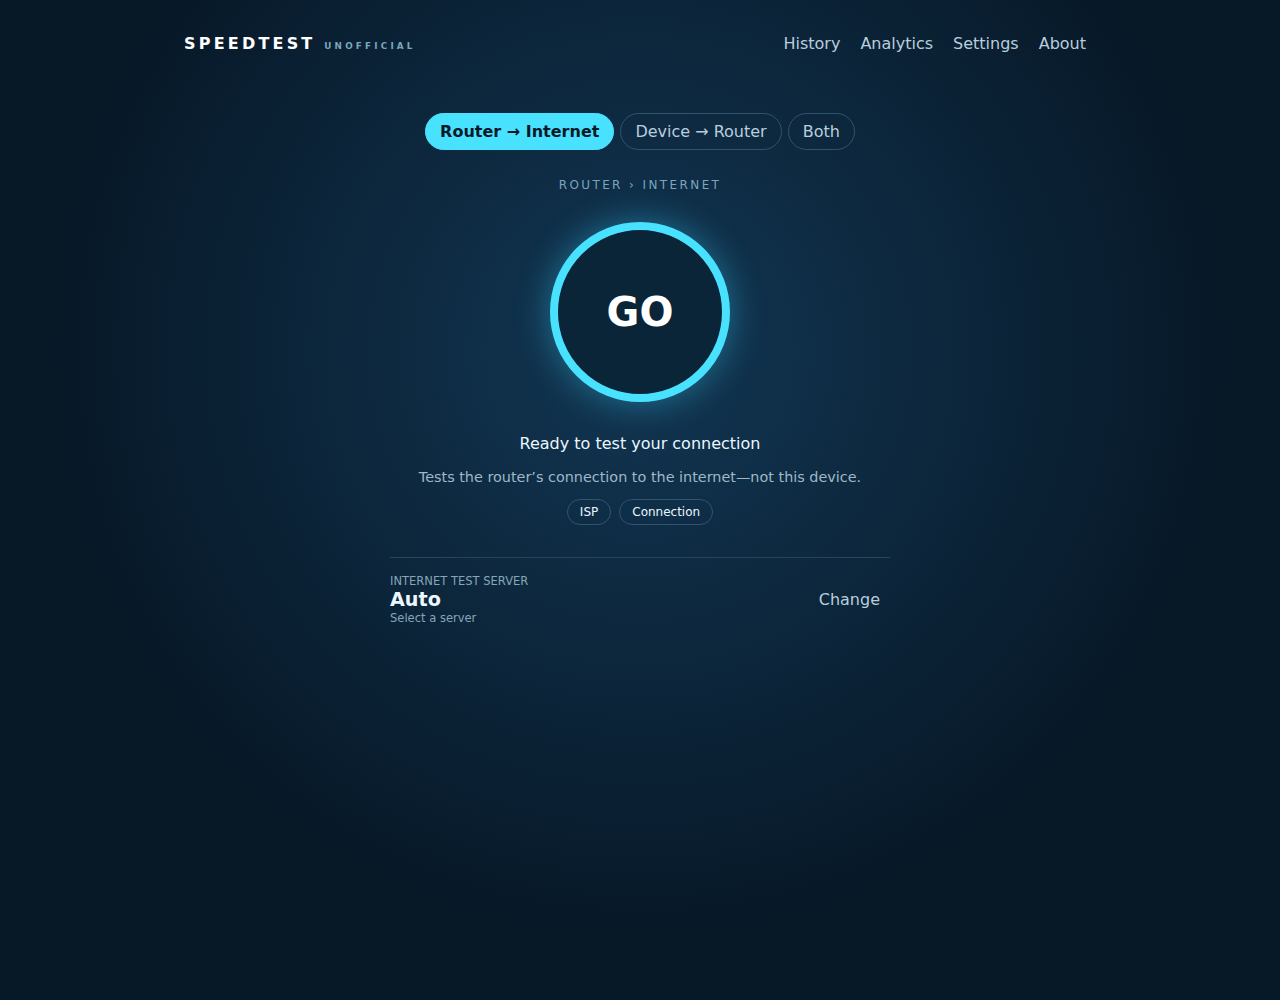
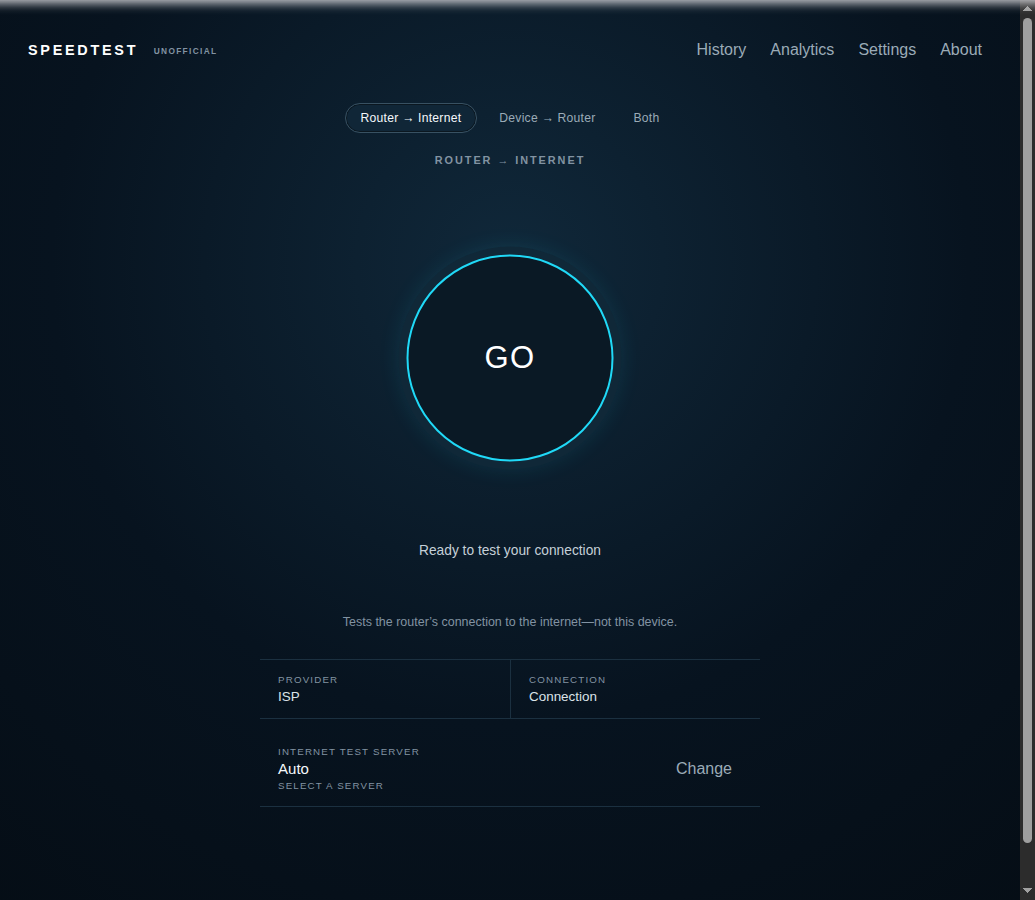
fix: verify live gauges on GL.iNet

diff --git a/tests/test_frontend_live.js b/tests/test_frontend_live.js
@@ -23,6 +23,7 @@ class FakeNode {
   removeChild(node) { this.children.splice(this.children.indexOf(node), 1); }
   get firstChild() { return this.children[0] || null; }
   setAttribute(name, value) { this.attributes[name] = String(value); }
+  removeAttribute(name) { delete this.attributes[name]; }
   getAttribute(name) { return this.attributes[name] || null; }
   showModal() { this.open = true; }
 }
@@ -133,16 +134,16 @@ async function testLiveSamplesReachComplete() {
   assert.equal(h.app.state.phase, 'ping');
   assert.equal(h.nodes['live-gauge'].attributes['data-phase'], 'ping');
   assert.equal(h.nodes['phase-label'].textContent, 'Ping');
-  assert.equal(h.nodes['gauge-needle'].attributes.transform, 'rotate(-110.025 230 230)');
+  assert.equal(h.nodes['gauge-needle'].style.transform, 'rotate(-110.025deg)');
   await h.timers.tick(500);
   assert.equal(h.app.state.phase, 'download');
   assert.deepEqual(Array.from(h.app.state.traces.download), [80, 120]);
   assert.notEqual(h.nodes['download-trace'].attributes.d, '');
-  const downloadNeedle = h.nodes['gauge-needle'].attributes.transform;
+  const downloadNeedle = h.nodes['gauge-needle'].style.transform;
   await h.timers.tick(500);
   assert.equal(h.app.state.phase, 'upload');
   assert.deepEqual(Array.from(h.app.state.traces.upload), [31]);
-  assert.notEqual(h.nodes['gauge-needle'].attributes.transform, downloadNeedle);
+  assert.notEqual(h.nodes['gauge-needle'].style.transform, downloadNeedle);
   await h.timers.tick(500);
   const result = await promise;
   assert.equal(h.app.state.phase, 'complete');
@@ -152,6 +153,24 @@ async function testLiveSamplesReachComplete() {
   assert.equal(result.upload_mbps, 31);
   assert.equal(h.app.state.download, 296.73);
   assert.deepEqual(Array.from(h.app.state.traces.download), [80, 120, 296.73]);
+}
+
+async function testResultEventWaitsForEnrichedTerminalState() {
+  const early = complete('result-race', 250);
+  early.state = 'running';
+  delete early.result.network_context;
+  const terminal = complete('result-race', 250);
+  terminal.result.network_context = { note: 'Tailscale exit node', vpn: true };
+  const responses = [{ ok: true, job_id: 'result-race' }, early, terminal];
+  const h = harness(() => Promise.resolve(responses.shift()));
+  const pending = h.app.internetTest();
+  await flush();
+  assert.equal(h.app.state.phase, 'complete');
+  assert.equal(h.app.state.status, 'running', 'a JSONL result event is not the worker terminal state');
+  await h.timers.tick(500);
+  const result = await pending;
+  assert.equal(result.network_context.note, 'Tailscale exit node');
+  assert.equal(h.calls.filter(call => call.method === 'live_status').length, 2);
 }
 
 async function testCadenceAndRetries() {
@@ -1172,6 +1191,7 @@ async function testMalformedNumericSamplesBecomeStableErrors() {
 
 (async function main() {
   await testLiveSamplesReachComplete();
+  await testResultEventWaitsForEnrichedTerminalState();
   await testCadenceAndRetries();
   await testStaleResponsesAreIgnored();
   await testCancelIsImmediateAndSingleShot();

diff --git a/package/shared/ookla-speedtest-web/app.js b/package/shared/ookla-speedtest-web/app.js
@@ -6,6 +6,7 @@ var pollTimer=null,pollWake=null,pollTimerToken=null,cancelPromise=null,cancelPr
 var state={view:'home',mode:'router-internet',status:'idle',phase:'idle',progress:0,gaugeValue:0,gaugeUnit:'Mbps',gaugeScale:100,traces:{download:[],upload:[]},activeJob:null,localRunId:null,cancelRequested:false,pollFailures:0,errorPath:null,errorCode:null,failedPhase:null,failedMode:null,download:null,upload:null,ping:null,jitter:null,loss:null,server:{name:'Auto',sponsor:'',city:'',latency:'—'},history:[],results:{internet:null,local:null},isp:'ISP',connection:'Connection',network:null,range:7,servers:[],pendingMode:null};
 function el(id){return document.getElementById(id)}
 function text(node,value){if(node)node.textContent=value}
+function setHidden(node,hidden){if(!node)return;node.hidden=hidden;if(hidden)node.setAttribute('hidden','');else node.removeAttribute('hidden')}
 function notify(){listeners.forEach(function(fn){fn(state)})}
 function subscribe(fn){listeners.push(fn);return function(){listeners=listeners.filter(function(x){return x!==fn})}}
 function navigate(view){state.view=view;render();notify()}
@@ -57,8 +58,8 @@ function applyLiveStatus(payload,jobId){
     if(payload.result.ping&&payload.result.ping.jitter!=null)liveNumber(payload.result.ping.jitter,100000);
     if(payload.result.packetLoss!=null)liveNumber(payload.result.packetLoss,100);
   }
-  state.phase=phase;state.status=phase==='complete'?'done':'running';
-  if(phase==='complete')clearPollWake();
+  state.phase=phase;state.status=backendState==='complete'?'done':'running';
+  if(backendState==='complete')clearPollWake();
   if(progress!=null)state.progress=progress*100;
   if(ping!=null)state.ping=ping;
   if(jitter!=null)state.jitter=jitter;
@@ -149,14 +150,14 @@ function renderGauge(){
   var angle=SpeedtestGauge.angleFor(Number(state.gaugeValue)||0,scale);
   var progress=Math.max(0,Math.min(100,Number(state.progress)||0));
   gauge.setAttribute('data-phase',phase);gauge.setAttribute('data-status',state.status);gauge.setAttribute('aria-busy',state.status==='preparing'||state.status==='running'||state.status==='cancelling'?'true':'false');gauge.style.setProperty('--gauge-progress',String(progress));
-  el('gauge-needle').setAttribute('transform','rotate('+angle+' 230 230)');
+  el('gauge-needle').style.transform='rotate('+angle+'deg)';
   text(el('phase-label'),phase==='ping'?'Ping':phase==='download'?'Download':phase==='upload'?'Upload':phase==='complete'?'Complete':'Ready');
   text(el('gauge-value'),metric(state.gaugeValue));text(el('gauge-unit'),state.gaugeUnit||'Mbps');
   document.querySelectorAll('[data-gauge-scale]').forEach(function(label,index){label.textContent=metric(scale*index/4)});
   text(el('metric-download'),metric(state.download));text(el('metric-upload'),metric(state.upload));text(el('metric-ping'),metric(state.ping));text(el('metric-jitter'),metric(state.jitter));text(el('metric-loss'),metric(state.loss));
   el('download-trace').setAttribute('d',SpeedtestGauge.tracePath(state.traces.download,scale));
   el('upload-trace').setAttribute('d',SpeedtestGauge.tracePath(state.traces.upload,scale));
-  var compact=state.status==='idle'||state.status==='preparing'||state.status==='done'||state.status==='cancelled'||state.status==='error';el('gauge-dial').hidden=compact;el('gauge-readout').hidden=compact;
+  var compact=state.status==='idle'||state.status==='preparing'||state.status==='done'||state.status==='cancelled'||state.status==='error';setHidden(el('gauge-dial'),compact);setHidden(el('gauge-readout'),compact);
   el('primary-metrics').hidden=state.status==='idle'||state.status==='preparing';document.querySelector('.latency-strip').hidden=state.status==='idle'||state.status==='preparing';
   el('go-control').hidden=state.status==='preparing'||state.status==='running'||state.status==='cancelling';el('cancel-test').hidden=state.status!=='running';el('cancel-test').disabled=state.status!=='running';
   if(state.status!=='running')clearNumericAnnouncement();announcePhase(state.phase);if(state.status==='running')announceGauge(phase+' '+metric(state.gaugeValue)+' '+(state.gaugeUnit||'Mbps'));

diff --git a/tests/test_frontend_render.js b/tests/test_frontend_render.js
@@ -19,6 +19,8 @@ class FakeNode {
   removeChild(node) { this.children.splice(this.children.indexOf(node), 1); }
   get firstChild() { return this.children[0] || null; }
   setAttribute(name, value) { this.attributes[name] = String(value); }
+  removeAttribute(name) { delete this.attributes[name]; }
+  hasAttribute(name) { return Object.prototype.hasOwnProperty.call(this.attributes, name); }
   getAttribute(name) { return this.attributes[name] || null; }
 }
 
@@ -28,6 +30,7 @@ const ids = ['live-gauge', 'gauge-dial', 'gauge-readout', 'gauge-needle', 'gauge
   'route-label', 'scope-note', 'status', 'isp-badge', 'network-badge', 'vpn-callout', 'server-name',
   'server-detail', 'results', 'view', 'phase-announcer', 'error-message', 'retry-test'];
 const nodes = Object.fromEntries(ids.map(id => [id, new FakeNode()]));
+nodes['gauge-dial'].setAttribute('hidden', '');
 nodes['live-announcer'].setAttribute('data-throttle-ms', '1000');
 const latency = new FakeNode();
 const scaleLabels = Array.from({ length: 5 }, () => new FakeNode());
@@ -69,6 +72,7 @@ Object.assign(app.state, {
 });
 app.render();
 assert.equal(nodes['gauge-dial'].hidden, false, 'running shows the dial');
+assert.equal(nodes['gauge-dial'].hasAttribute('hidden'), false, 'running removes the SVG hidden attribute');
 assert.equal(nodes['gauge-readout'].hidden, false, 'running shows the live readout');
 assert.equal(nodes['go-control'].hidden, true, 'running hides GO');
 assert.equal(nodes['cancel-test'].hidden, false, 'running shows cancel');
@@ -84,7 +88,7 @@ assert.equal(nodes['metric-ping'].textContent, '8.4');
 assert.equal(nodes['download-trace'].attributes.d, SpeedtestGauge.tracePath([10, 30, 50], 200));
 assert.equal(nodes['upload-trace'].attributes.d, '');
 assert.deepEqual(scaleLabels.map(node => node.textContent), ['0', '50', '100', '150', '200']);
-assert.equal(nodes['gauge-needle'].attributes.transform, 'rotate(-67.5 230 230)');
+assert.equal(nodes['gauge-needle'].style.transform, 'rotate(-67.5deg)');
 assert.equal(nodes['live-gauge'].style.values['--gauge-progress'], '25');
 
 Object.assign(app.state, { phase: 'upload', progress: 60, gaugeValue: 100, upload: 42.75, traces: { download: [10, 30, 50], upload: [20, 42.75] } });
@@ -94,7 +98,7 @@ assert.equal(nodes['phase-label'].textContent, 'Upload');
 assert.equal(nodes['phase-announcer'].textContent, 'Upload phase');
 assert.equal(nodes['metric-upload'].textContent, '42.75');
 assert.equal(nodes['upload-trace'].attributes.d, SpeedtestGauge.tracePath([20, 42.75], 200));
-assert.equal(nodes['gauge-needle'].attributes.transform, 'rotate(0 230 230)');
+assert.equal(nodes['gauge-needle'].style.transform, 'rotate(0deg)');
 
 Object.assign(app.state, { status: 'done', phase: 'complete', progress: 100 });
 app.render();

diff --git a/package/shared/ookla-speedtest-web/index.html b/package/shared/ookla-speedtest-web/index.html
@@ -45,7 +45,7 @@
           <text x="310" y="137" data-gauge-scale="3">75</text>
           <text x="348" y="372" data-gauge-scale="4">100</text>
         </g>
-        <g id="gauge-needle" class="gauge-needle" transform="rotate(-135 230 230)" aria-hidden="true">
+        <g id="gauge-needle" class="gauge-needle" aria-hidden="true">
           <line x1="230" y1="230" x2="230" y2="72"></line>
           <circle cx="230" cy="230" r="9"></circle>
         </g>

diff --git a/package/shared/ookla-speedtest-web/styles.css b/package/shared/ookla-speedtest-web/styles.css
@@ -76,7 +76,7 @@ nav button:hover, .server button:hover { color: var(--cyan); }
 .gauge-progress { stroke: var(--phase-color); stroke-dasharray: var(--gauge-progress, 0) 100; filter: drop-shadow(0 0 5px color-mix(in srgb, var(--phase-color) 38%, transparent)); transition: stroke-dasharray .32s ease, stroke .25s ease; }
 .gauge-ticks path { fill: none; stroke: #425260; stroke-linecap: round; stroke-width: 2; }
 .gauge-ticks text { fill: #71818e; font-size: 11px; text-anchor: middle; }
-.gauge-needle { transform-origin: 230px 230px; transition: transform .32s cubic-bezier(.22, .75, .2, 1); }
+.gauge-needle { transform: rotate(-135deg); transform-box: view-box; transform-origin: 230px 230px; transition: transform .32s cubic-bezier(.22, .75, .2, 1); }
 .gauge-needle line { stroke: var(--phase-color); stroke-linecap: round; stroke-width: 2.5; filter: drop-shadow(0 0 4px color-mix(in srgb, var(--phase-color) 45%, transparent)); }
 .gauge-needle circle { fill: var(--navy-raised); stroke: var(--phase-color); stroke-width: 4; }
 .gauge-readout { position: absolute; top: 48%; left: 50%; display: grid; justify-items: center; width: 190px; transform: translate(-50%, -50%); }

diff --git a/tests/test_frontend_contract.js b/tests/test_frontend_contract.js
@@ -28,6 +28,8 @@ assert.match(js,/function announceGauge\s*\(/); assert.match(js,/setTimeout\s*\(
 assert.match(js,/router.*internet|internet.*router/i); assert.match(css,/@media/); assert.match(css,/#0?4|navy|cyan/i);
 assert.match(css,/--cyan\s*:/); assert.match(css,/--violet\s*:/); assert.match(css,/:focus-visible/); assert.match(css,/@media\s*\(prefers-reduced-motion:\s*reduce\)/); assert.match(css,/@media\s*\(max-width:\s*640px\)/); assert.match(css,/grid-template-columns:\s*1fr/);
 assert.match(css,/\.gauge\[data-status=["']idle["']\]\s+\.gauge-dial/);
+assert.match(css,/\.gauge-needle\s*\{[^}]*transform-box:\s*view-box/);
+assert.doesNotMatch(html,/id=["']gauge-needle["'][^>]*\stransform=/);
 assert.match(css,/\.gauge\s*\{[^}]*width:\s*100%;[^}]*max-width:\s*520px;/s);assert.match(css,/@supports\s*\(aspect-ratio:/);
 assert.match(css,/\.gauge\[data-status=["']done["']\]/);
 assert.match(css,/\.gauge\[data-status="idle"\],[^{]+\{[^}]*width:\s*clamp\(280px,\s*32vw,\s*340px\)/s,'compact shell must remain reference-sized and responsive');

diff --git a/tests/test_package_layout.py b/tests/test_package_layout.py
@@ -203,6 +203,7 @@ class PackageLayoutContractTests(unittest.TestCase):
         self.assertIn("rpcd", luci_postinst)
         gl_postinst = (PACKAGE / "gl-app-ookla-speedtest-web/CONTROL/postinst").read_text()
         self.assertIn("nginx", gl_postinst)
+        self.assertIn("nginx restart", gl_postinst)
 
     def test_rpcd_acl_is_limited_to_fixed_methods(self):
         acl = PACKAGE / "luci-app-ookla-speedtest-web/usr/share/rpcd/acl.d/luci-app-ookla-speedtest-web.json"

diff --git a/README.md b/README.md
@@ -6,7 +6,14 @@ LuCI or GL.iNet Applications experience. The interface offers separate
 measurements, plus a **Both** action that runs them together and maps the two
 paths separately in results, history, and analytics.
 
-![Ookla Speedtest Web dashboard](docs/screenshots/dashboard.png)
+These screenshots are from the package running inside the GL.iNet Applications
+view on a real router:
+
+![Ready to run a router-to-internet test](docs/screenshots/dashboard.png)
+
+![Live router-to-internet download gauge](docs/screenshots/live-download.png)
+
+![Separate Device to Router and Router to Internet results](docs/screenshots/final-results.png)
 
 ## What you get
 